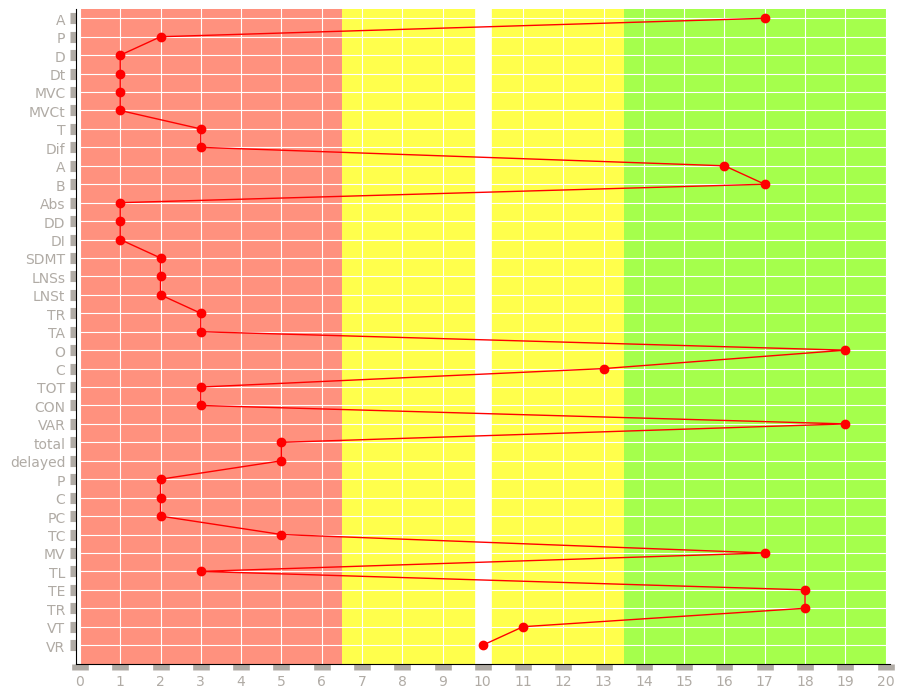
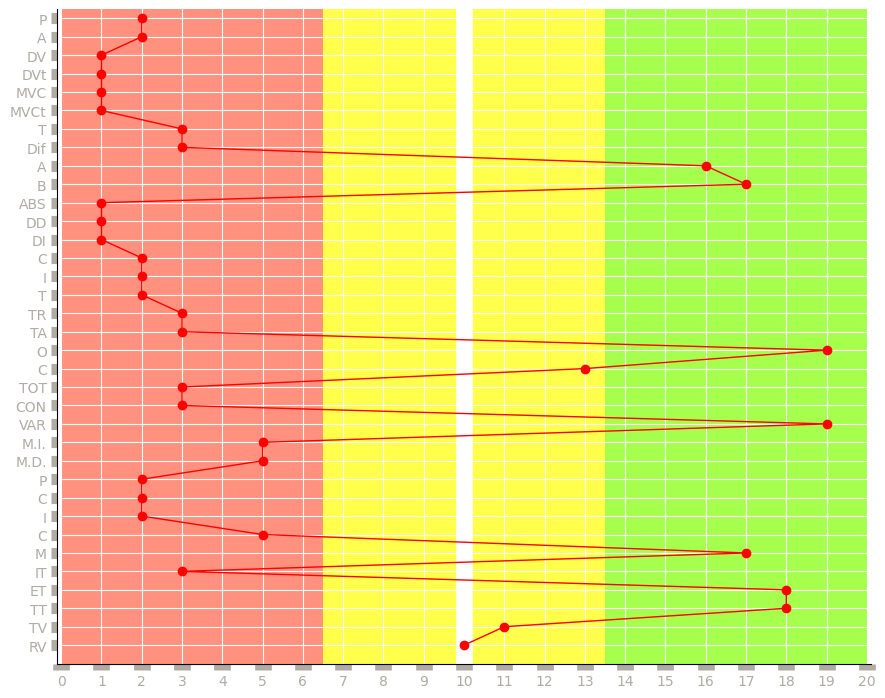
Se modificó la forma en la que se imprime el reporte

diff --git a/vistas/Reporte/reporte.css b/vistas/Reporte/reporte.css
@@ -38,9 +38,14 @@ tr:nth-child(even) {
 	border-top: 1px solid black;	
 }
 
-.table-PSQI, .table-BUTT {
+.table-BUTT {
 	float: left;
-	width: 50%;
+	width: 55%;
+}
+
+.table-PSQI {
+	float: left;
+	width: 45%;
 }
 
 .table-pruebas {
@@ -50,12 +55,18 @@ tr:nth-child(even) {
 
 .table-graph {
 	float: left;
-	width: 80%;
+	width: 75%;
+}
+
+.fill {
+	float: left;
+	height: 100%;
+    width: 75%
 }
 
 .grafica {
 	float: left;
-	width: 85%;
+	width: 100%;
 }
 
 @media print and (color) {
@@ -63,4 +74,8 @@ tr:nth-child(even) {
       -webkit-print-color-adjust: exact !important;
       print-color-adjust: exact !important;
    }
+}
+
+@media print {
+    .pagebreak { page-break-before: always; } /* page-break-after works, as well */
 }

diff --git a/controladores/ReporteController.py b/controladores/ReporteController.py
@@ -275,11 +275,9 @@ class ReporteController(QtWidgets.QWidget, ControllerModel):
 		escalares = [int(x) for x in escalares]
 		print(escalares) 
 		yPos = np.arange(34,-1,-1)
-		yLabels = ['VR', 'VT', 'TR', 'TE', 'TL', 'MV', 'TC', 'PC', 'C', 'P', 'delayed', 'total', 'VAR', 'CON', 'TOT', 'C', 'O',
-		 'TA', 'TR', 'LNSt', 'LNSs', 'SDMT', 'DI', 'DD', 'Abs', 'B', 'A', 'Dif', 'T', 'MVCt', 'MVC', 'Dt', 'D', 'P', 'A']
-			
+		yLabels = ['RV', 'TV', 'TT', 'ET', 'IT', 'M', 'C', 'I', 'C', 'P', 'M.D.', 'M.I.', 'VAR', 'CON', 'TOT', 'C', 'O',
+			'TA', 'TR', 'T', 'I', 'C', 'DI', 'DD', 'ABS', 'B', 'A', 'Dif', 'T', 'MVCt', 'MVC', 'DVt', 'DV', 'A', 'P']	
 		raw_html += '</table>'
-		raw_html += '<table class="table-graph">'
 		
 		#Aquí va la gráfica
 		x = np.arange(0,21)
@@ -316,6 +314,8 @@ class ReporteController(QtWidgets.QWidget, ControllerModel):
 		plt.savefig(self.image, bbox_inches='tight')
 		plt.clf() #con esta linea no se sobreescriben puntos en la grafica al actualizar los datos de las pruebas
 
+		"""
+		raw_html += '<table class="table-graph">'
 		raw_html += '<tr>'
 		raw_html += '<td class="no-colored-background">'
 		raw_html += '<img src="reporte.png" class="grafica">'
@@ -323,7 +323,13 @@ class ReporteController(QtWidgets.QWidget, ControllerModel):
 		raw_html += '</tr>'
 
 		raw_html += '</table>'
+		"""
+		raw_html += '<div class="fill">'
+		raw_html += '<img src="reporte.png" class="grafica">'
 		raw_html += '</div>'
+		raw_html += '</div>'
+		
+		raw_html += '<div class="pagebreak"></div>'
 
 		#################################### AQUÍ ACABA LO DEL NOMBRE DE LAS PRUEBAS Y LA GRÁFICA ####################################
 
@@ -758,8 +764,6 @@ class ReporteController(QtWidgets.QWidget, ControllerModel):
 		raw_html += '</tr>'
 		
 		raw_html += '</table>' 						#Cierra la tabla
-
-		raw_html += '</div>'
 
 		raw_html += '</div>'
 		raw_html += '</div>'
